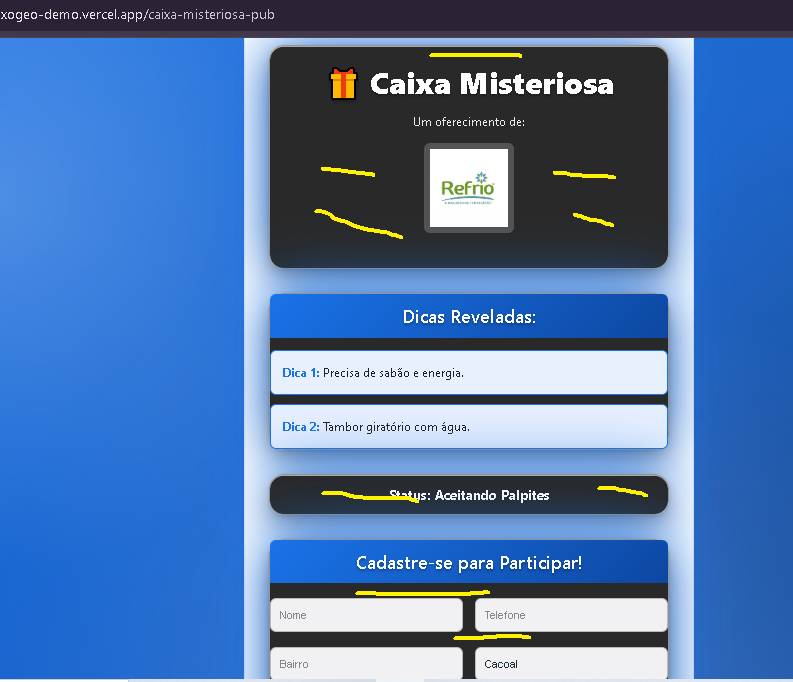
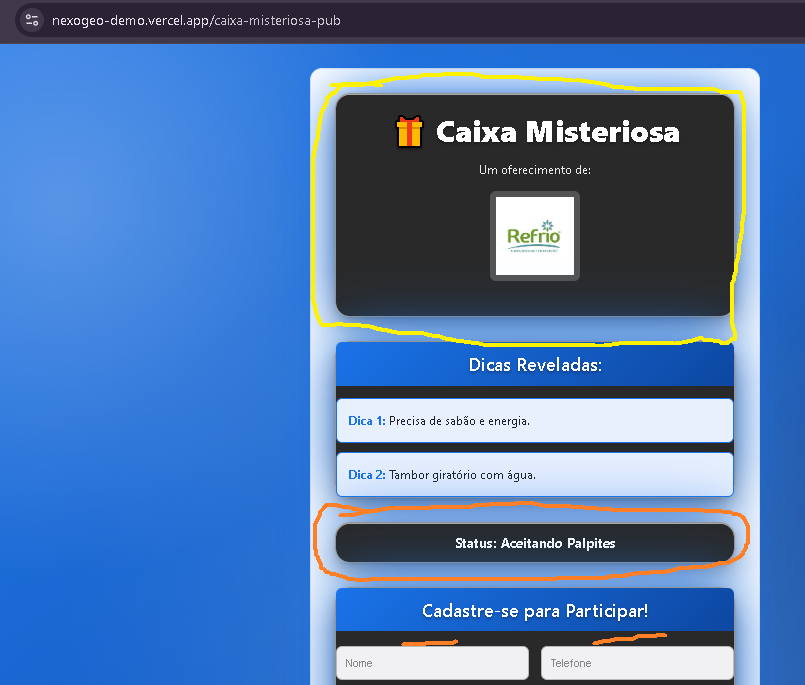
fix: Remove efeitos de glow e hover da página Caixa Misteriosa
- Remove glow amarelo/laranja dos cards (box-shadow com --color-primary)
- Remove animação card-subtle-glow que criava efeito de brilho infinito
- Remove hover effects dos cards (sem transform, shadow ou mudança de cor)
- Remove shimmer effect dos botões (display: none no ::before)
- Remove glow effect dos botões no hover
- Mantém borders e shadows básicos para estrutura visual

Conforme solicitado em erro.navegador.md:
- Borda amarela do card → agora branca/transparente
- Borda laranja do status → agora usa cor do tema via gradient
- Sem efeitos de cor ao passar mouse em botões e campos

🤖 Generated with [Claude Code](https://claude.com/claude-code)

diff --git a/src/pages/CaixaMisteriosaPub.css b/src/pages/CaixaMisteriosaPub.css
@@ -71,50 +71,22 @@
   backdrop-filter: blur(20px);
   -webkit-backdrop-filter: blur(20px);
   border-radius: 20px !important;
-  border: 1.5px solid rgba(255, 255, 255, 0.5);
+  border: 2px solid rgba(255, 255, 255, 0.8);
   transition: all 0.4s cubic-bezier(0.34, 1.56, 0.64, 1);
   box-shadow:
     0 0 1px rgba(0, 0, 0, 0.05),
     0 2px 4px rgba(0, 0, 0, 0.1),
     0 8px 16px rgba(0, 0, 0, 0.15),
     0 20px 40px rgba(0, 0, 0, 0.2),
-    0 0 80px var(--color-primary, rgba(102, 126, 234, 0.4)),
     inset 0 1px 0 rgba(255, 255, 255, 0.8) !important;
-  animation: card-subtle-glow 3s ease-in-out infinite;
+  animation: none;
 }
 
-@keyframes card-subtle-glow {
-  0%, 100% {
-    box-shadow:
-      0 0 1px rgba(0, 0, 0, 0.05),
-      0 2px 4px rgba(0, 0, 0, 0.1),
-      0 8px 16px rgba(0, 0, 0, 0.15),
-      0 20px 40px rgba(0, 0, 0, 0.2),
-      0 0 80px var(--color-primary, rgba(102, 126, 234, 0.4)),
-      inset 0 1px 0 rgba(255, 255, 255, 0.8);
-  }
-  50% {
-    box-shadow:
-      0 0 1px rgba(0, 0, 0, 0.05),
-      0 4px 8px rgba(0, 0, 0, 0.12),
-      0 12px 20px rgba(0, 0, 0, 0.18),
-      0 25px 50px rgba(0, 0, 0, 0.25),
-      0 0 100px var(--color-primary, rgba(102, 126, 234, 0.5)),
-      inset 0 1px 0 rgba(255, 255, 255, 0.9);
-  }
-}
+/* Animação removida - cards mantêm shadow estático */
 
 .caixa-misteriosa-pub-container .card:hover,
 .caixa-misteriosa-pub-container > div > div:hover {
-  background: rgba(255, 255, 255, 1) !important;
-  box-shadow:
-    0 0 2px rgba(0, 0, 0, 0.08),
-    0 4px 8px rgba(0, 0, 0, 0.15),
-    0 12px 24px rgba(0, 0, 0, 0.2),
-    0 30px 60px rgba(0, 0, 0, 0.3),
-    0 0 120px var(--color-primary, rgba(102, 126, 234, 0.6)),
-    inset 0 1px 0 rgba(255, 255, 255, 1) !important;
-  transform: translateY(-8px) scale(1.01);
+  /* Sem mudança de cor - mantém consistência */
 }
 
 /* Botões com efeito */
@@ -133,17 +105,15 @@
   height: 100%;
   background: linear-gradient(90deg, transparent, rgba(255, 255, 255, 0.2), transparent);
   transition: left 0.5s ease-in-out;
+  display: none;
 }
 
 .caixa-misteriosa-pub-container button:hover::before {
-  left: 100%;
+  /* Sem efeito shimmer */
 }
 
 .caixa-misteriosa-pub-container button:hover {
-  transform: translateY(-2px);
-  box-shadow:
-    0 6px 20px rgba(0, 0, 0, 0.15),
-    0 0 30px var(--color-primary, rgba(102, 126, 234, 0.4)) !important;
+  /* Sem mudança de cor no hover */
 }
 
 /* Inputs com melhor contraste - sem transições */

diff --git a/erro.navegador.md b/erro.navegador.md
@@ -1,16 +1,8 @@
 https://nexogeo-demo.vercel.app/caixa-misteriosa-pub
  
+parte seleciona com cor amarelo (deixar branco) 
 
-veja a imagem print-tela.png
+parte seleciona com cor laranja deixar na mesma cor do tema selecionado
 
-tem partes que esta fundo preto fiz riscos de amarelo
-
-mudar para usar a cores do tema degrade para a cor selecionada
- e preto so quando for dark
-
-
-tirar efeito de mudar cores quando passa o mouse
-cuida para quando escrever nao ficar a mesma cor 
-do fundo e as letras nao ter como ler.
-
+retirar os efeitos de mudar de cor quando passa o mouse sobre botoes e campos 
 
